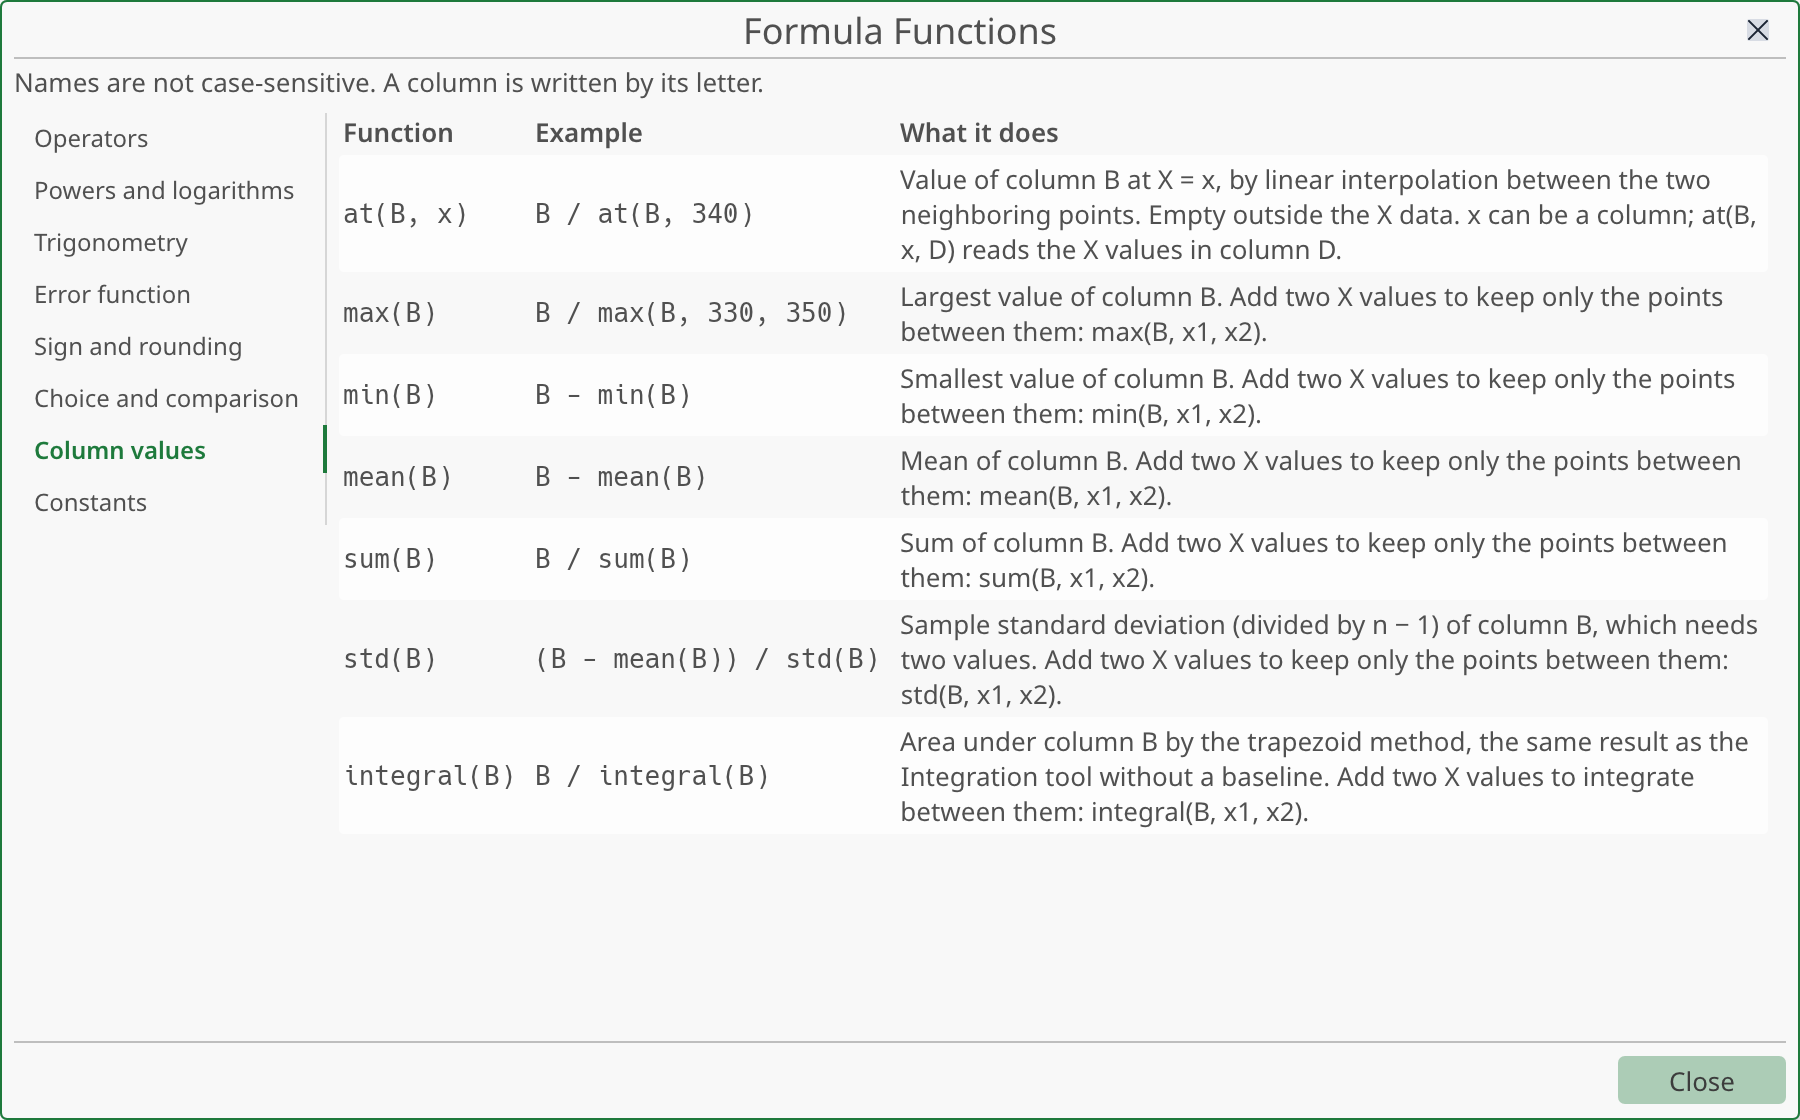
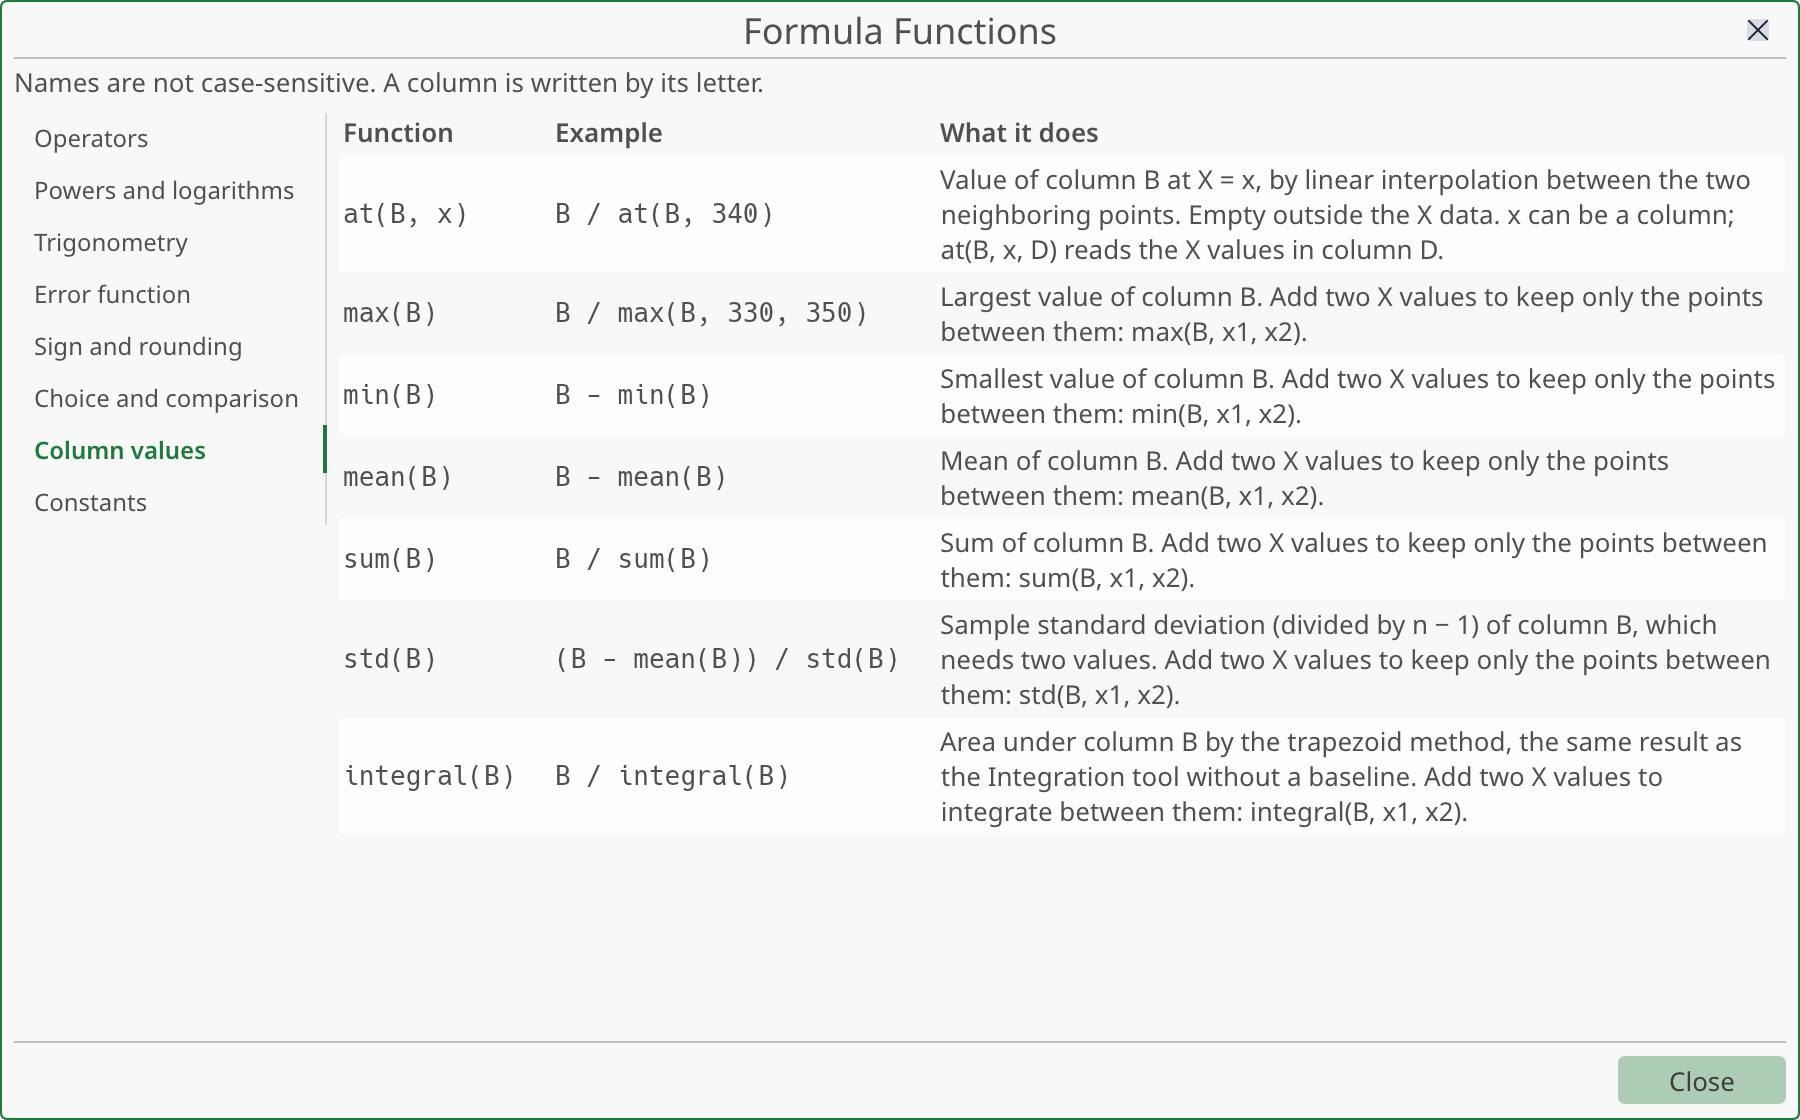
Formula Functions window: wider gap between the table columns (Refs #402)
Claude-Session: https://claude.ai/code/session_01PxxG2ShyeKXrR6nqd4iMzf

diff --git a/crates/stokesforge-app/src/app/formula_functions_window.rs b/crates/stokesforge-app/src/app/formula_functions_window.rs
@@ -70,7 +70,7 @@ fn family_table(ui: &mut egui::Ui, group: &HelpGroup) {
     theme::page_scroll_area().show(ui, |ui| {
         egui::Grid::new("formula_functions_table")
             .num_columns(3)
-            .spacing(egui::vec2(10.0, 6.0))
+            .spacing(egui::vec2(20.0, 6.0))
             .striped(true)
             .show(ui, |ui| {
                 ui.label(theme::bold(tr!("formula-help-column-function")));
